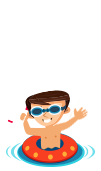
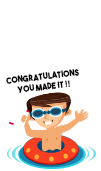
implement the game logic

diff --git a/js/app.js b/js/app.js
@@ -77,15 +77,18 @@ Player.prototype.update = function(dt) {
         player.sprite = 'images/boy3.png';
     }
 
-    if (object.x === 700 && object.y === 700 && 
-        object2.x === 700 && object2.y === 700 &&
-        object3.x === 700 && object3.y === 700 &&
+    if (object.x === 420 && object.y === 496 && 
+        object2.x === 475 && object2.y === 496 &&
+        object3.x === 520 && object3.y === 496 &&
         this.y < 0) {
         this.y = -60;
         player.sprite = 'images/boy-win.png';
         Player.prototype.handleInput = function(keyPress) {
             return false;
         }
+      setTimeout(function(){ 
+            document.location.reload(true);
+        }, 3200);
     }
 };
 
@@ -143,8 +146,9 @@ Object.prototype.render = function() {
 
 // Hide the object off canvas
 Object.prototype.collision = function() {
-    this.x = 700;
-    this.y = 700;
+    this.x = 420;
+    this.y = 496;
+    this.sprite = 'images/object1.1.png';
 };
 
 
@@ -176,8 +180,9 @@ Object2.prototype.render = function() {
 
 // Hide the object 2 off canvas
 Object2.prototype.collision = function() {
-    this.x = 700;
-    this.y = 700;
+    this.x = 475;
+    this.y = 496;
+    this.sprite = 'images/object2.2.png';
 };
 
 
@@ -209,9 +214,11 @@ Object3.prototype.render = function() {
 
 // Hide the object 3 off canvas
 Object3.prototype.collision = function() {
-    this.x = 700;
-    this.y = 700;
+    this.x = 520;
+    this.y = 496;
+    this.sprite = 'images/object3.3.png';
 };
+
 
 
 /////////////////////////////////////////////////////////////////////////////////////////////////
@@ -241,7 +248,7 @@ document.addEventListener('keyup', function(e) {
         37: 'left',
         38: 'up',
         39: 'right',
-        40: 'down'
+        40: 'down',
     };
 
     player.handleInput(allowedKeys[e.keyCode]);

diff --git a/js/engine.js b/js/engine.js
@@ -25,7 +25,7 @@ var Engine = (function(global) {
         lastTime;
 
     canvas.width = 606;
-    canvas.height = 606;
+    canvas.height = 610;
     doc.body.appendChild(canvas);
 
     /* This function serves as the kickoff point for the game loop itself
@@ -109,6 +109,7 @@ var Engine = (function(global) {
         /* This array holds the relative URL to the image used
          * for that particular row of the game level.
          */
+
         var rowImages = [
                 'images/water-block.png',   // Top row is water
                 'images/stone-block.png',   // Row 1 of 4 of stone
@@ -138,6 +139,7 @@ var Engine = (function(global) {
                  * we're using them over and over.
                  */
                 ctx.drawImage(Resources.get(rowImages[row]), col * 101, row * 83);
+                
             }
         }
 
@@ -188,8 +190,11 @@ var Engine = (function(global) {
         'images/boy3.png',
         'images/boy-win.png',
         'images/object1.png',
+        'images/object1.1.png',
         'images/object2.png',
+        'images/object2.2.png',
         'images/object3.png',
+        'images/object3.3.png',
     ]);
     Resources.onReady(init);
 

diff --git a/index.html b/index.html
@@ -6,8 +6,17 @@
     <meta name="viewport" content="width=device-width,initial-scale=1">
     <meta http-equiv="X-UA-Compatible" content="IE=edge">
     <link rel="stylesheet" href="css/style.css">
+    <link href="https://fonts.googleapis.com/css?family=Titan+One" rel="stylesheet">
+    <link rel="stylesheet" href="https://use.fontawesome.com/releases/v5.0.10/css/all.css" integrity="sha384-+d0P83n9kaQMCwj8F4RJB66tzIwOKmrdb46+porD/OvrJ+37WqIM7UoBtwHO6Nlg" crossorigin="anonymous">
 </head>
 <body>
+    <ul>
+        <li><h1>Project arcade game by Nadia Essoubai</h1></li>
+        <li><a href="https://nadia-essoubai.fr" target="_blank"><i class="fas fa-globe"></i></a></li>
+        <li><a href="mailto:nadia.essoubai@gmail.com"><i class="fas fa-envelope-square"></i></a></li>
+        <li><a href="https://fr.linkedin.com/in/nadia-essoubai" target="_blank"><i class="fab fa-linkedin"></i></a></li>
+    </ul>
+
     <script src="js/resources.js"></script>
     <script src="js/app.js"></script>
     <script src="js/engine.js"></script>

diff --git a/css/style.css b/css/style.css
@@ -8,5 +8,31 @@ body {
 
 canvas {
     max-width: 100%;
-    padding-top: 10px;
+    margin-top: -10px;
+}
+
+h1 {
+    font-size: 20px;
+    text-transform: uppercase;
+    letter-spacing: 1px;
+    margin-bottom: 0;
+    color: #00a1ce;
+    font-family: 'Titan One', cursive;
+}
+
+ul {
+    list-style-type: none;
+    margin-top: 15px;
+    padding: 0;
+    margin: 0;
+}
+
+ul li {
+    display: inline-block;
+    margin-left: 5px;
+}
+
+i {
+    color: #00a1ce;
+    font-size: 18px;
 }
